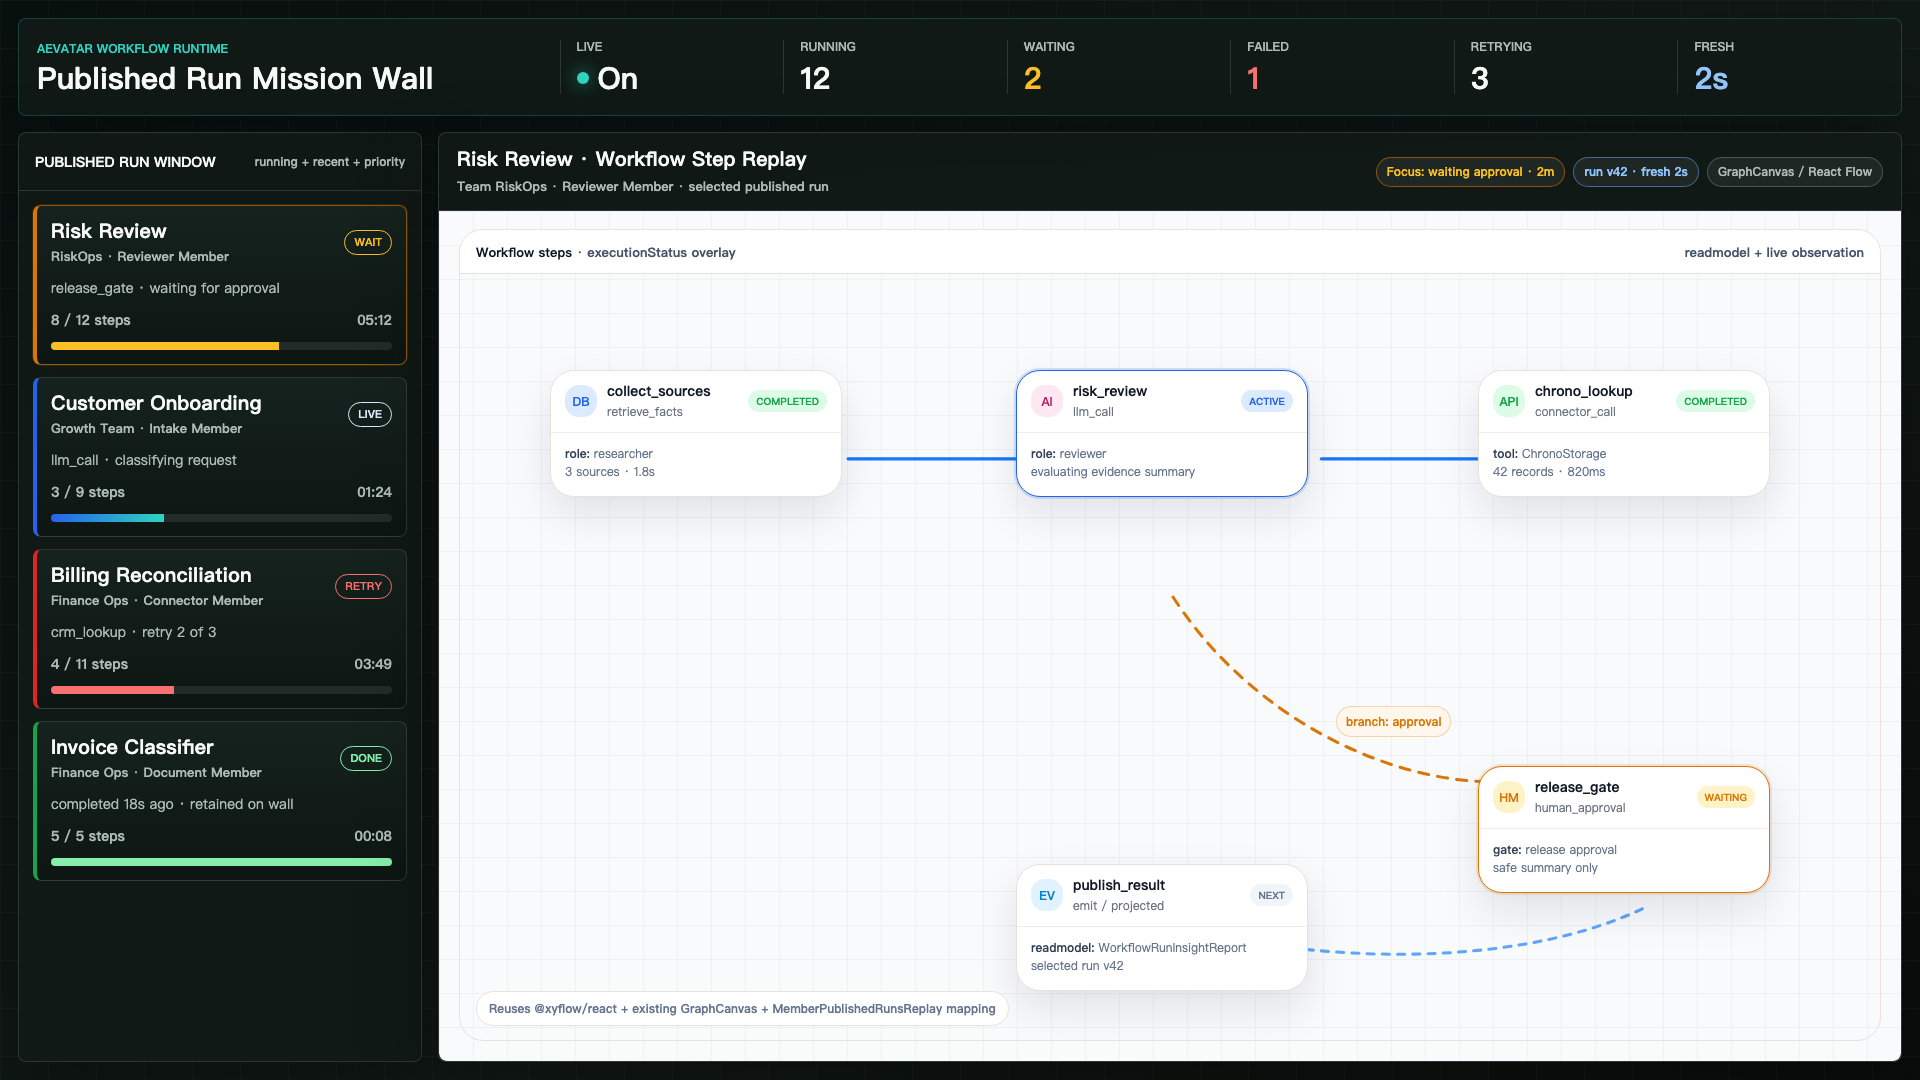
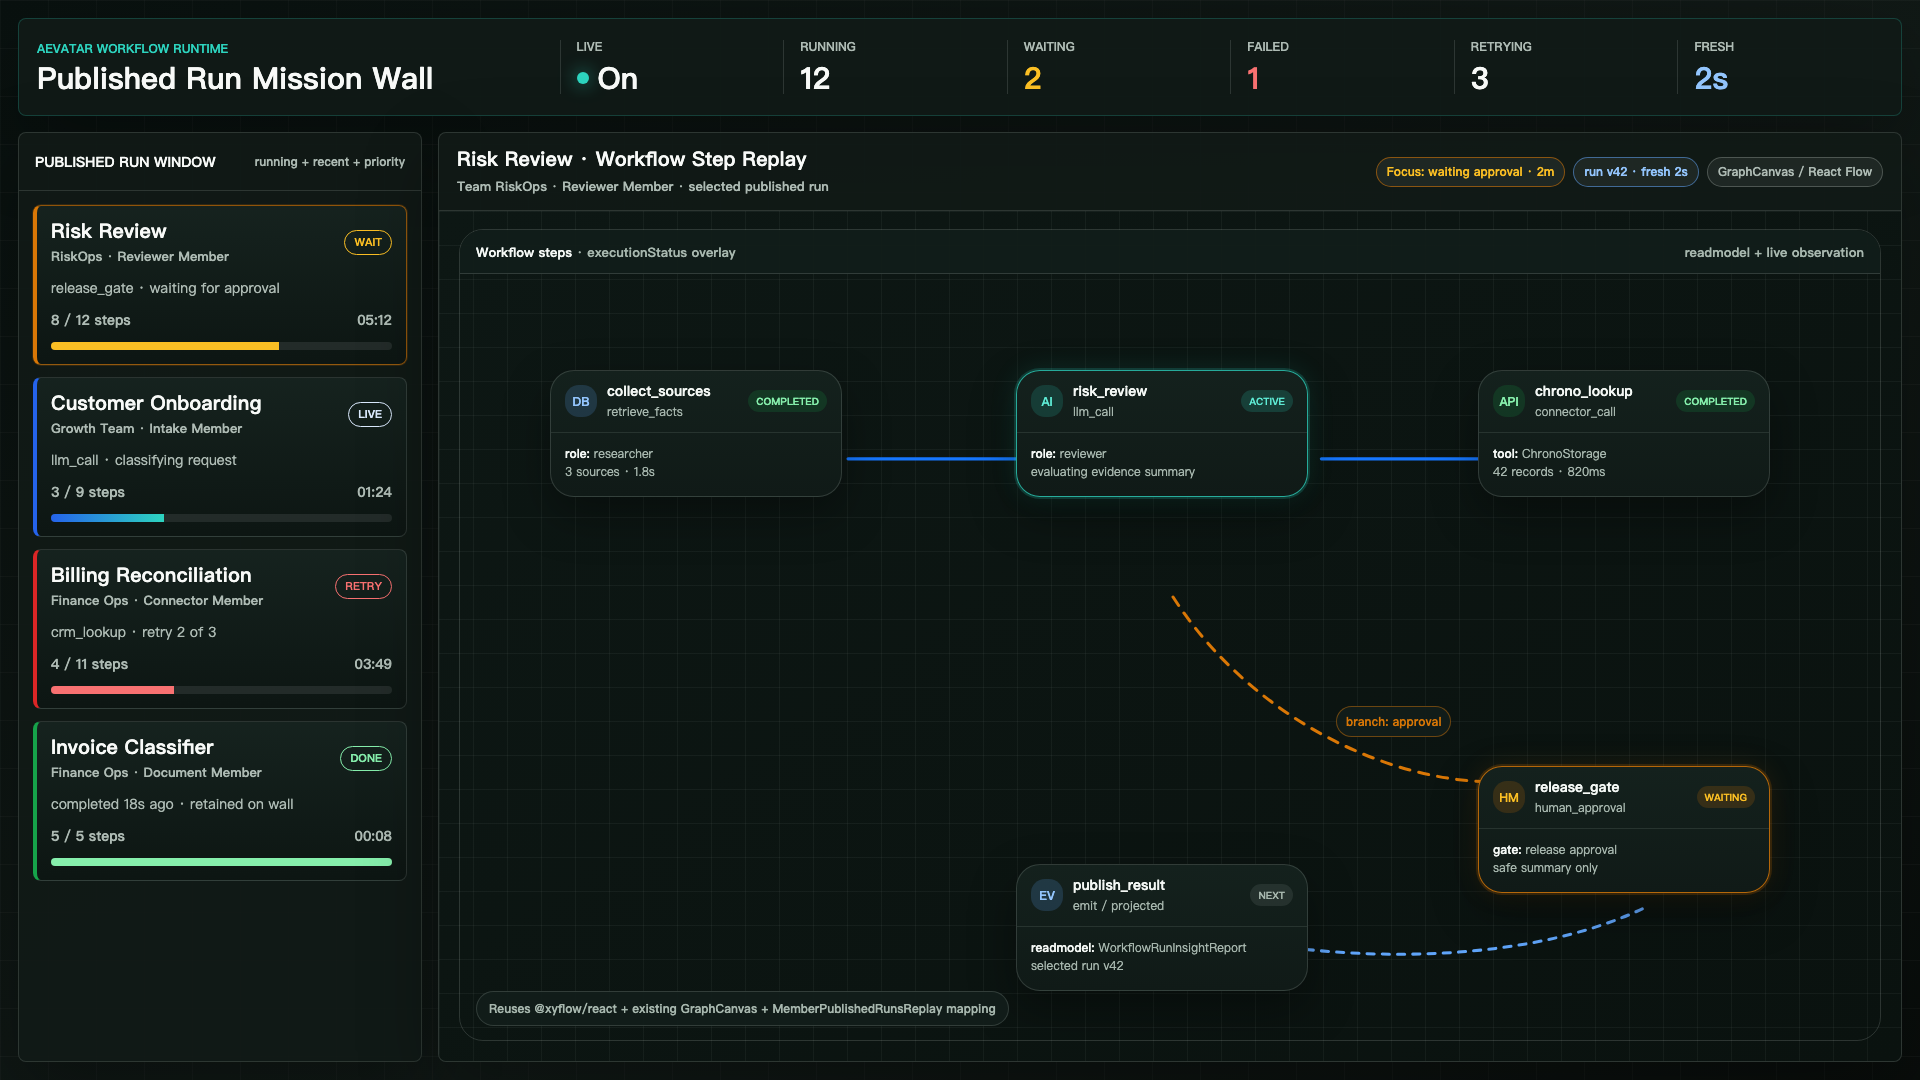
Align workflow wall prototype theme

diff --git a/docs/designs/2026-06-29-workflow-mission-wall-prototype.html b/docs/designs/2026-06-29-workflow-mission-wall-prototype.html
@@ -23,13 +23,15 @@
         --warning-soft: #fef3c7;
         --error: #dc2626;
         --error-soft: #fee2e2;
-        --canvas: #f8fafc;
-        --canvas-grid: #edf1f5;
-        --canvas-card: #ffffff;
-        --canvas-text: #111827;
-        --canvas-muted: #64748b;
-        --canvas-line: #e8e2d9;
-        --shadow-soft: 0 18px 42px rgba(17, 24, 39, 0.1);
+        --canvas: #0d1714;
+        --canvas-2: #111d19;
+        --canvas-grid: rgba(201, 213, 206, 0.055);
+        --canvas-card: #14211d;
+        --canvas-card-2: #101a17;
+        --canvas-text: #f4f8f5;
+        --canvas-muted: #a7b7ae;
+        --canvas-line: rgba(201, 213, 206, 0.18);
+        --shadow-soft: 0 18px 46px rgba(0, 0, 0, 0.34);
         --shadow-wall: 0 28px 80px rgba(0, 0, 0, 0.32);
       }
 
@@ -348,7 +350,7 @@
         background:
           linear-gradient(var(--canvas-grid) 1px, transparent 1px),
           linear-gradient(90deg, var(--canvas-grid) 1px, transparent 1px),
-          var(--canvas);
+          linear-gradient(145deg, var(--canvas) 0%, #0a120f 100%);
         background-size: 34px 34px, 34px 34px, auto;
         border-radius: 0 0 8px 8px;
         min-height: 0;
@@ -369,9 +371,9 @@
 
       .canvas-toolbar {
         align-items: center;
-        background: rgba(255, 255, 255, 0.92);
-        border-bottom: 1px solid #e8e2d9;
-        color: #475569;
+        background: rgba(17, 29, 25, 0.94);
+        border-bottom: 1px solid var(--canvas-line);
+        color: var(--canvas-muted);
         display: flex;
         font-size: 13px;
         font-weight: 700;
@@ -381,7 +383,7 @@
       }
 
       .canvas-toolbar span {
-        color: #0f172a;
+        color: var(--canvas-text);
         font-weight: 820;
       }
 
@@ -418,7 +420,7 @@
       }
 
       .node {
-        background: var(--canvas-card);
+        background: linear-gradient(180deg, var(--canvas-card), var(--canvas-card-2));
         border: 1px solid var(--canvas-line);
         border-radius: 24px;
         box-shadow: var(--shadow-soft);
@@ -430,22 +432,24 @@
       }
 
       .node.focused {
-        border-color: #2563eb;
+        border-color: rgba(45, 212, 191, 0.78);
         box-shadow:
-          0 0 0 2px rgba(37, 99, 235, 0.18),
+          0 0 0 2px rgba(45, 212, 191, 0.18),
+          0 0 28px rgba(45, 212, 191, 0.12),
           var(--shadow-soft);
       }
 
       .node.waiting {
-        border-color: #d97706;
+        border-color: rgba(217, 119, 6, 0.82);
         box-shadow:
-          0 0 0 2px rgba(217, 119, 6, 0.16),
+          0 0 0 2px rgba(217, 119, 6, 0.18),
+          0 0 28px rgba(217, 119, 6, 0.12),
           var(--shadow-soft);
       }
 
       .node-top {
         align-items: center;
-        border-bottom: 1px solid #f1ece5;
+        border-bottom: 1px solid rgba(201, 213, 206, 0.12);
         display: flex;
         gap: 10px;
         min-height: 58px;
@@ -465,28 +469,28 @@
       }
 
       .icon.data {
-        background: #dbeafe;
-        color: #2563eb;
+        background: rgba(96, 165, 250, 0.18);
+        color: #93c5fd;
       }
 
       .icon.ai {
-        background: #fce7f3;
-        color: #be185d;
+        background: rgba(45, 212, 191, 0.16);
+        color: #5eead4;
       }
 
       .icon.api {
-        background: #dcfce7;
-        color: #16a34a;
+        background: rgba(22, 163, 74, 0.18);
+        color: #86efac;
       }
 
       .icon.human {
-        background: #fef3c7;
-        color: #d97706;
+        background: rgba(217, 119, 6, 0.18);
+        color: #fbbf24;
       }
 
       .icon.emit {
-        background: #e0f2fe;
-        color: #0284c7;
+        background: rgba(96, 165, 250, 0.18);
+        color: #93c5fd;
       }
 
       .node-label {
@@ -495,14 +499,14 @@
       }
 
       .step-id {
-        color: #111827;
+        color: var(--canvas-text);
         font-size: 14px;
         font-weight: 720;
         line-height: 1.25;
       }
 
       .step-subtitle {
-        color: #6b7280;
+        color: var(--canvas-muted);
         font-size: 12px;
         line-height: 1.35;
         margin-top: 3px;
@@ -519,23 +523,23 @@
       }
 
       .status.completed {
-        background: var(--success-soft);
-        color: var(--success);
+        background: rgba(22, 163, 74, 0.18);
+        color: #86efac;
       }
 
       .status.active {
-        background: var(--blue-soft);
-        color: var(--blue);
+        background: rgba(45, 212, 191, 0.18);
+        color: #5eead4;
       }
 
       .status.waiting {
-        background: var(--warning-soft);
-        color: var(--warning);
+        background: rgba(217, 119, 6, 0.18);
+        color: #fbbf24;
       }
 
       .status.idle {
-        background: #f1f5f9;
-        color: #64748b;
+        background: rgba(201, 213, 206, 0.1);
+        color: var(--canvas-muted);
       }
 
       .node-body {
@@ -546,13 +550,13 @@
       }
 
       .node-body strong {
-        color: #334155;
+        color: var(--canvas-text);
         font-weight: 720;
       }
 
       .branch-label {
-        background: #fff7ed;
-        border: 1px solid rgba(217, 119, 6, 0.28);
+        background: rgba(17, 29, 25, 0.94);
+        border: 1px solid rgba(217, 119, 6, 0.46);
         border-radius: 999px;
         color: #d97706;
         font-size: 12px;
@@ -563,11 +567,11 @@
       }
 
       .source-note {
-        background: rgba(255, 255, 255, 0.92);
-        border: 1px solid #e8e2d9;
+        background: rgba(17, 29, 25, 0.94);
+        border: 1px solid var(--canvas-line);
         border-radius: 999px;
         bottom: 14px;
-        color: #64748b;
+        color: var(--canvas-muted);
         font-size: 12px;
         font-weight: 720;
         left: 16px;
